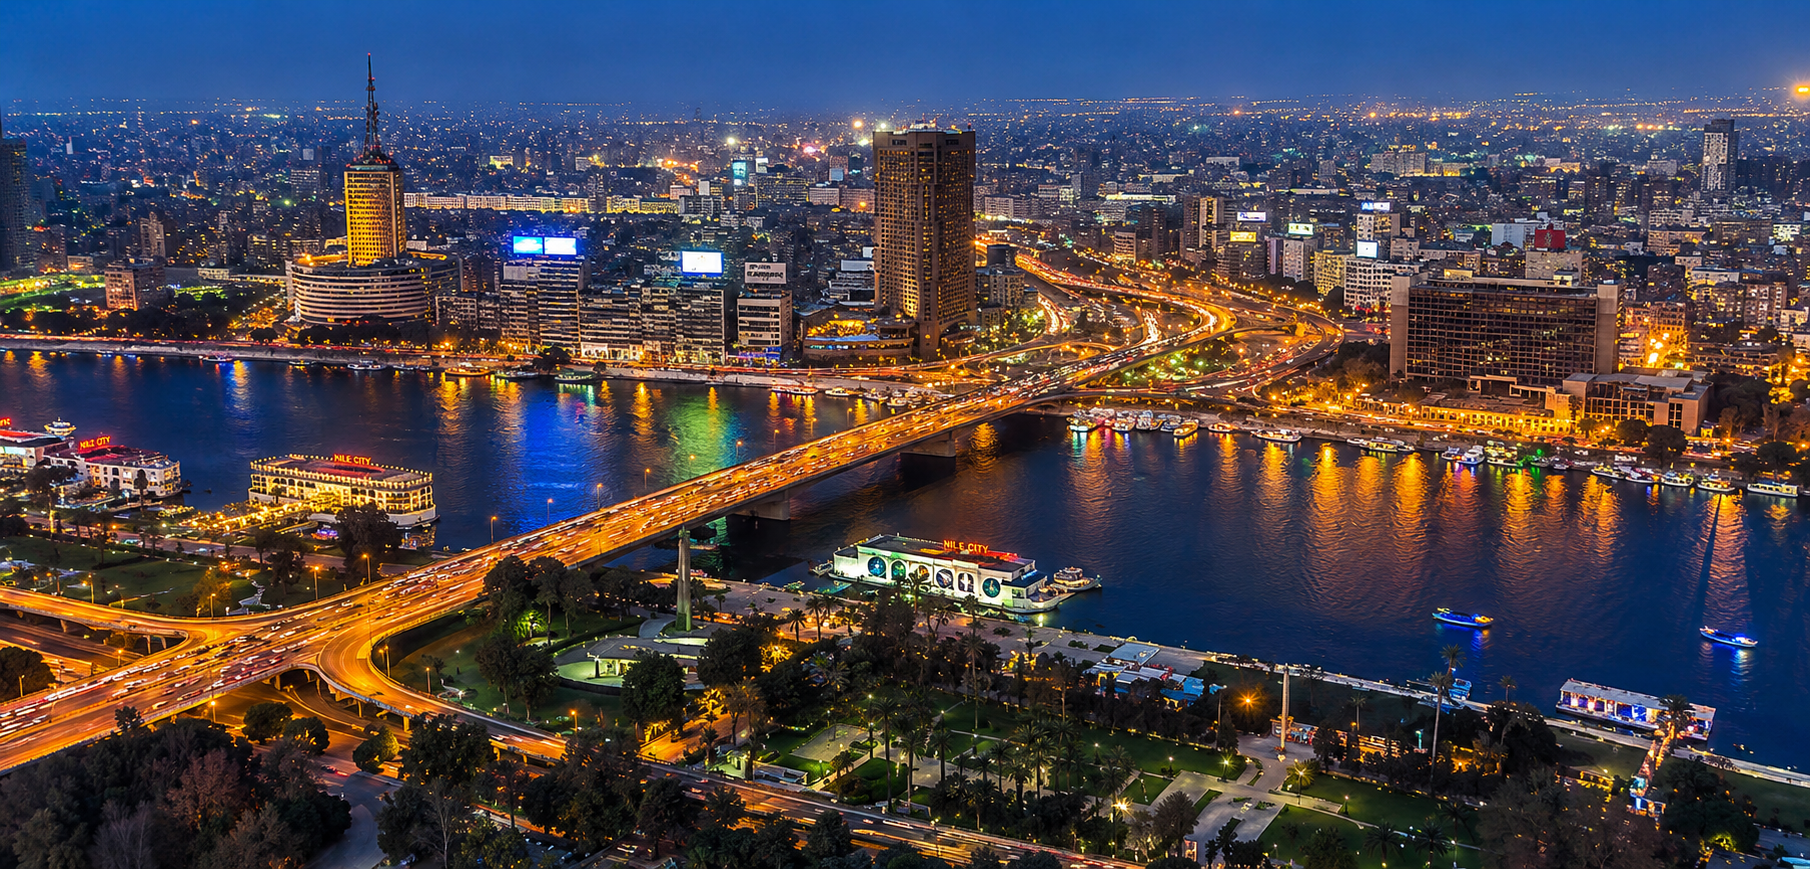
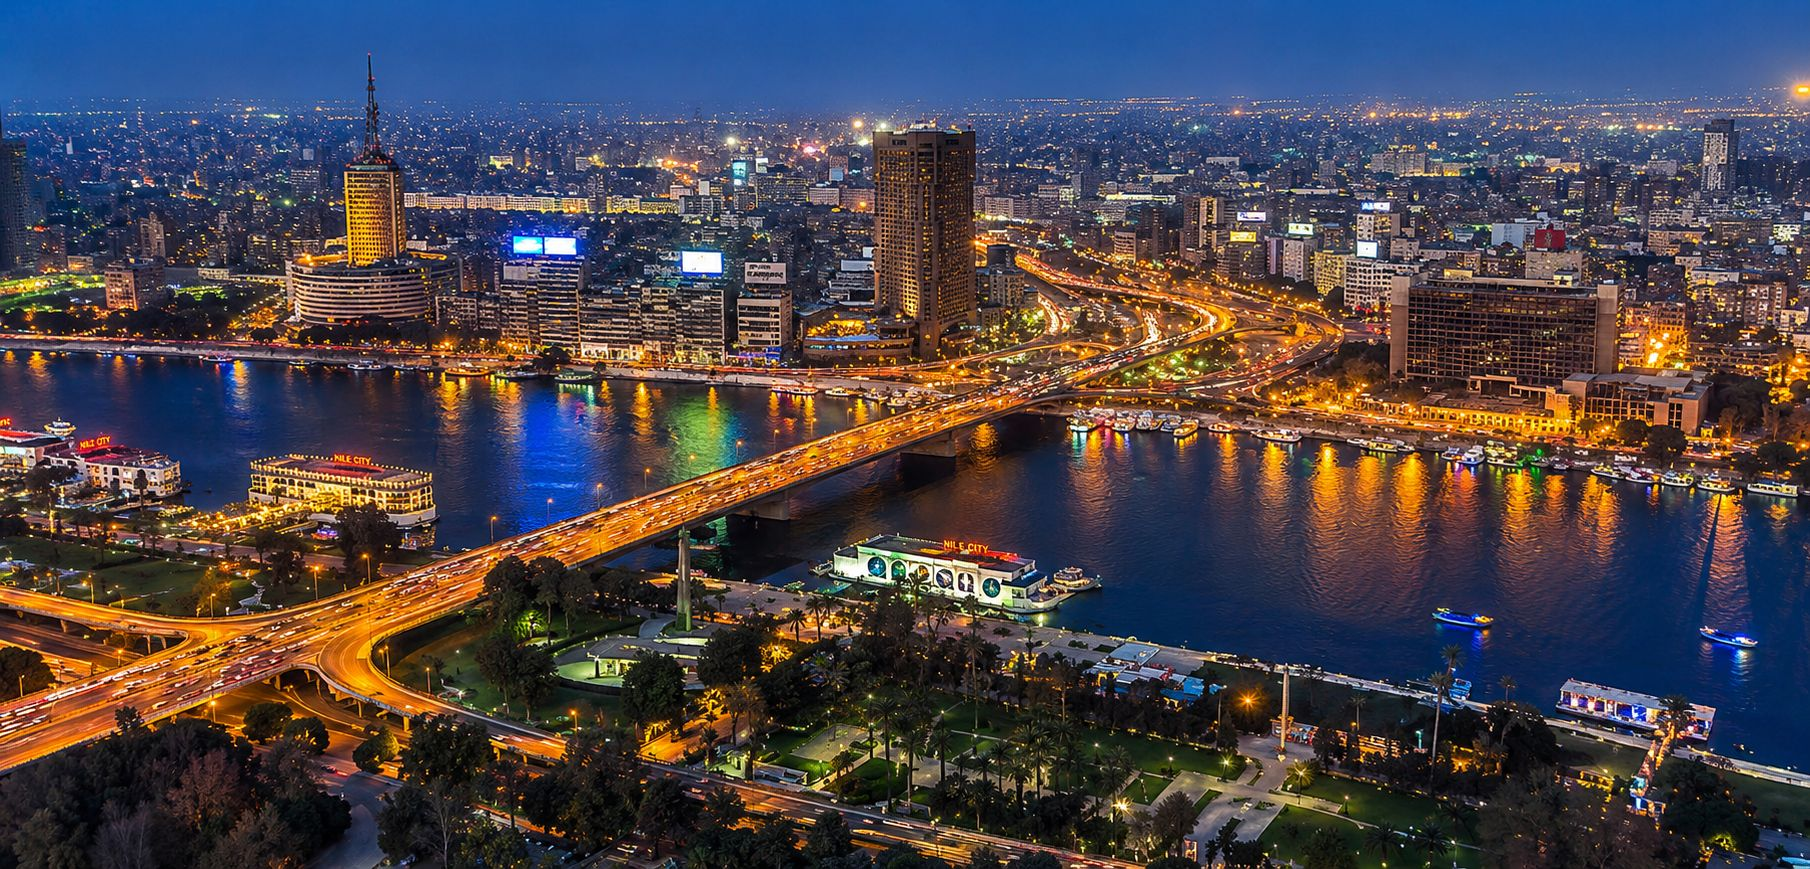
Add Cairo skyline parallax + gold glow accents to "Why Egypt? Why Now?"
Replaced the solid navy radial-gradient background with a night aerial
photo of Cairo, using the same .shp-bg/.shp-overlay scroll-parallax
mechanics already built for the MEGA EGYPT pyramid section - refactored
that section's inline IIFE into a shared initParallaxSection(sectionId,
bgId) helper (matching index.html's own naming) and call it for both
sections now, rather than duplicating the ~30 lines a second time.

Overlay is a navy gradient from ~74% opacity at the top down to ~50%
through the heading/badges and back up to ~82% at the close line -
strong enough to protect legibility but visibly showing the photo
throughout, not washing it out. Every text element (eyebrow, heading,
paragraph, badges, closing line) got a matching text-shadow tuned
against the photo's brightest band (the lit bridge/traffic through the
middle), verified by screenshotting the busiest part of the image with
text over it.

Gold glow: "History" and "Aligns" in the heading get a static gold-soft
glow (.glow-word), the already-gold "one of those moments" phrase now
breathes with a slow 3.6s ambient pulse, and the seven pill badges get
a hover state (brighter border/background/text plus a gold box-shadow
and a 2px lift) using the same .3s ease-out timing as the site's
existing "Golden Thread" hover pattern. Reduced-motion disables the
parallax translateY, the pulse animation, and the badges' hover lift,
keeping the color/glow changes.

Compressed the source photo from ~3.1MB to ~430KB.

diff --git a/jt-foxx-egypt.html b/jt-foxx-egypt.html
@@ -376,15 +376,33 @@
   .split .copy{padding:clamp(40px,6vw,84px)}
   @media(max-width:860px){.split{grid-template-columns:1fr}.split .media{min-height:340px;order:-1}}
 
-  /* why now */
-  .whynow{background:radial-gradient(120% 120% at 50% 0%,#12294c,#0a1428 60%,#050b18 100%);color:#fff;text-align:center;padding:120px 26px}
-  .whynow .k{font-family:var(--sans);text-transform:uppercase;letter-spacing:.34em;font-size:12px;color:var(--gold);font-weight:600;margin-bottom:28px}
-  .whynow h2{color:#fff;font-size:clamp(30px,4.6vw,58px);margin-bottom:22px}
-  .whynow p{font-family:var(--serif);font-weight:500;font-size:clamp(19px,2.1vw,26px);line-height:1.45;color:#dbe3ee;max-width:24ch;margin:0 auto}
+  /* why now — Cairo skyline parallax background, same .shp-bg/.shp-overlay
+     mechanics as #mega-egypt above (see that section's comment / the tail
+     script's initParallaxSection). The radial navy gradient this section
+     used to have is kept as the base background-color, showing through
+     while the photo lazy-loads and giving the overlay something to blend
+     with, rather than being replaced outright. Every text element gets a
+     matching text-shadow (not just the heading) since the photo's bright
+     bridge-traffic band can sit behind any of them depending on viewport
+     height. "History" and "Aligns" in the heading, and the pill badges on
+     hover, get the same gold-soft glow already used for this section's
+     closing "one of those moments" - which now also breathes with a slow
+     ambient pulse. */
+  .whynow{position:relative;overflow:hidden;color:#fff;text-align:center;padding:120px 26px;background:#0a1428}
+  .whynow .shp-bg{position:absolute;left:0;right:0;top:-90px;bottom:-90px;background-size:cover;background-position:center 65%;will-change:transform}
+  .whynow .shp-overlay{position:absolute;inset:0;background:linear-gradient(180deg,rgba(5,11,24,.74) 0%,rgba(5,11,24,.5) 35%,rgba(5,11,24,.58) 65%,rgba(5,11,24,.82) 100%);z-index:1}
+  .whynow-inner{position:relative;z-index:2}
+  .whynow .k{font-family:var(--sans);text-transform:uppercase;letter-spacing:.34em;font-size:12px;color:var(--gold);font-weight:600;margin-bottom:28px;text-shadow:0 2px 12px rgba(0,0,0,.7)}
+  .whynow h2{color:#fff;font-size:clamp(30px,4.6vw,58px);margin-bottom:22px;text-shadow:0 3px 20px rgba(0,0,0,.65),0 1px 3px rgba(0,0,0,.8)}
+  .whynow h2 .glow-word{color:var(--gold-soft);text-shadow:0 0 20px rgba(220,193,137,.6),0 3px 16px rgba(0,0,0,.6)}
+  .whynow p{font-family:var(--serif);font-weight:500;font-size:clamp(19px,2.1vw,26px);line-height:1.45;color:#dbe3ee;max-width:24ch;margin:0 auto;text-shadow:0 2px 16px rgba(0,0,0,.65)}
   .whynow .forces{display:flex;flex-wrap:wrap;justify-content:center;gap:10px;max-width:720px;margin:36px auto 0}
-  .whynow .force{font-family:var(--sans);text-transform:uppercase;letter-spacing:.16em;font-size:12.5px;color:var(--gold-soft);font-weight:600;border:1px solid rgba(200,162,76,.4);border-radius:40px;padding:8px 18px}
-  .whynow .close{font-family:var(--serif);font-style:italic;font-size:clamp(20px,2.4vw,30px);color:#fff;margin-top:40px}
-  .whynow .close b{color:var(--gold-soft);font-weight:600}
+  .whynow .force{font-family:var(--sans);text-transform:uppercase;letter-spacing:.16em;font-size:12.5px;color:var(--gold-soft);font-weight:600;border:1px solid rgba(200,162,76,.4);border-radius:40px;padding:8px 18px;background:rgba(5,11,24,.35);text-shadow:0 2px 10px rgba(0,0,0,.6);transition:color .3s ease-out,border-color .3s ease-out,box-shadow .3s ease-out,background .3s ease-out,transform .3s ease-out}
+  .whynow .force:hover,.whynow .force:focus-visible{color:#fff;border-color:var(--gold-soft);background:rgba(200,162,76,.16);box-shadow:0 0 18px rgba(220,193,137,.45);transform:translateY(-2px)}
+  .whynow .close{font-family:var(--serif);font-style:italic;font-size:clamp(20px,2.4vw,30px);color:#fff;margin-top:40px;text-shadow:0 2px 16px rgba(0,0,0,.65)}
+  .whynow .close b{color:var(--gold-soft);font-weight:600;text-shadow:0 0 14px rgba(220,193,137,.5);animation:whynowPulse 3.6s ease-in-out infinite}
+  @keyframes whynowPulse{0%,100%{text-shadow:0 0 10px rgba(220,193,137,.35)}50%{text-shadow:0 0 22px rgba(220,193,137,.7)}}
+  @media(prefers-reduced-motion:reduce){.whynow .shp-bg{top:0;bottom:0}.whynow .force{transition:color .3s ease-out,border-color .3s ease-out,box-shadow .3s ease-out,background .3s ease-out}.whynow .force:hover,.whynow .force:focus-visible{transform:none}.whynow .close b{animation:none;text-shadow:0 0 16px rgba(220,193,137,.55)}}
 
   /* one big quote */
   .megaquote{background:#fff;text-align:center;padding:140px 26px;border-top:1px solid var(--line);border-bottom:1px solid var(--line)}
@@ -659,20 +677,24 @@
 </section>
 
 <!-- ===== WHY EGYPT? WHY NOW? ===== -->
-<section class="whynow" aria-label="Why Egypt, why now">
-  <div class="k reveal">Why Egypt? Why Now?</div>
-  <h2 class="reveal">Because History Rarely Aligns Like This.</h2>
-  <p class="reveal d1">Every so often, a country reaches a moment when everything it needs arrives at once.</p>
-  <div class="forces reveal d1">
-    <span class="force">Talent</span>
-    <span class="force">Capital</span>
-    <span class="force">Leadership</span>
-    <span class="force">Technology</span>
-    <span class="force">Infrastructure</span>
-    <span class="force">Government</span>
-    <span class="force">Vision</span>
+<section class="whynow" id="why-now" aria-label="Why Egypt, why now">
+  <div class="shp-bg" id="whyNowBg" data-bg="images/CAIRO-EGYPT.jpg"></div>
+  <div class="shp-overlay"></div>
+  <div class="whynow-inner">
+    <div class="k reveal">Why Egypt? Why Now?</div>
+    <h2 class="reveal">Because <span class="glow-word">History</span> Rarely <span class="glow-word">Aligns</span> Like This.</h2>
+    <p class="reveal d1">Every so often, a country reaches a moment when everything it needs arrives at once.</p>
+    <div class="forces reveal d1">
+      <span class="force">Talent</span>
+      <span class="force">Capital</span>
+      <span class="force">Leadership</span>
+      <span class="force">Technology</span>
+      <span class="force">Infrastructure</span>
+      <span class="force">Government</span>
+      <span class="force">Vision</span>
+    </div>
+    <p class="close reveal d2">JT Foxx believes Egypt is entering <b>one of those moments.</b></p>
   </div>
-  <p class="close reveal d2">JT Foxx believes Egypt is entering <b>one of those moments.</b></p>
 </section>
 
 <!-- ===== MEGA EGYPT ===== -->
@@ -831,15 +853,16 @@
     els.forEach(function(e){io.observe(e);});
   })();
 
-  // "MEGA EGYPT" pyramid background parallax - same mechanics as
-  // index.html's initParallaxSection (#seen-heard / #students): the
-  // photo is lazy-loaded via IntersectionObserver, then (unless
-  // prefers-reduced-motion) nudged with a clamped, rAF-throttled
+  // Shared by every .shp-bg scroll-parallax section on this page (MEGA
+  // EGYPT's pyramid photo, Why Egypt/Why Now's Cairo skyline) - same
+  // mechanics as index.html's initParallaxSection (#seen-heard /
+  // #students): the photo is lazy-loaded via IntersectionObserver, then
+  // (unless prefers-reduced-motion) nudged with a clamped, rAF-throttled
   // translateY tied to scroll position, rather than
   // background-attachment:fixed, which mobile Safari doesn't support.
-  (function(){
-    var section=document.getElementById('mega-egypt');
-    var bg=document.getElementById('megaBg');
+  function initParallaxSection(sectionId, bgId){
+    var section=document.getElementById(sectionId);
+    var bg=document.getElementById(bgId);
     if(!section||!bg) return;
 
     var src=bg.getAttribute('data-bg');
@@ -871,7 +894,9 @@
     }
     addEventListener('scroll', onScroll, {passive:true});
     update();
-  })();
+  }
+  initParallaxSection('mega-egypt', 'megaBg');
+  initParallaxSection('why-now', 'whyNowBg');
 </script>
 <script src="assets/app.js"></script>
 
